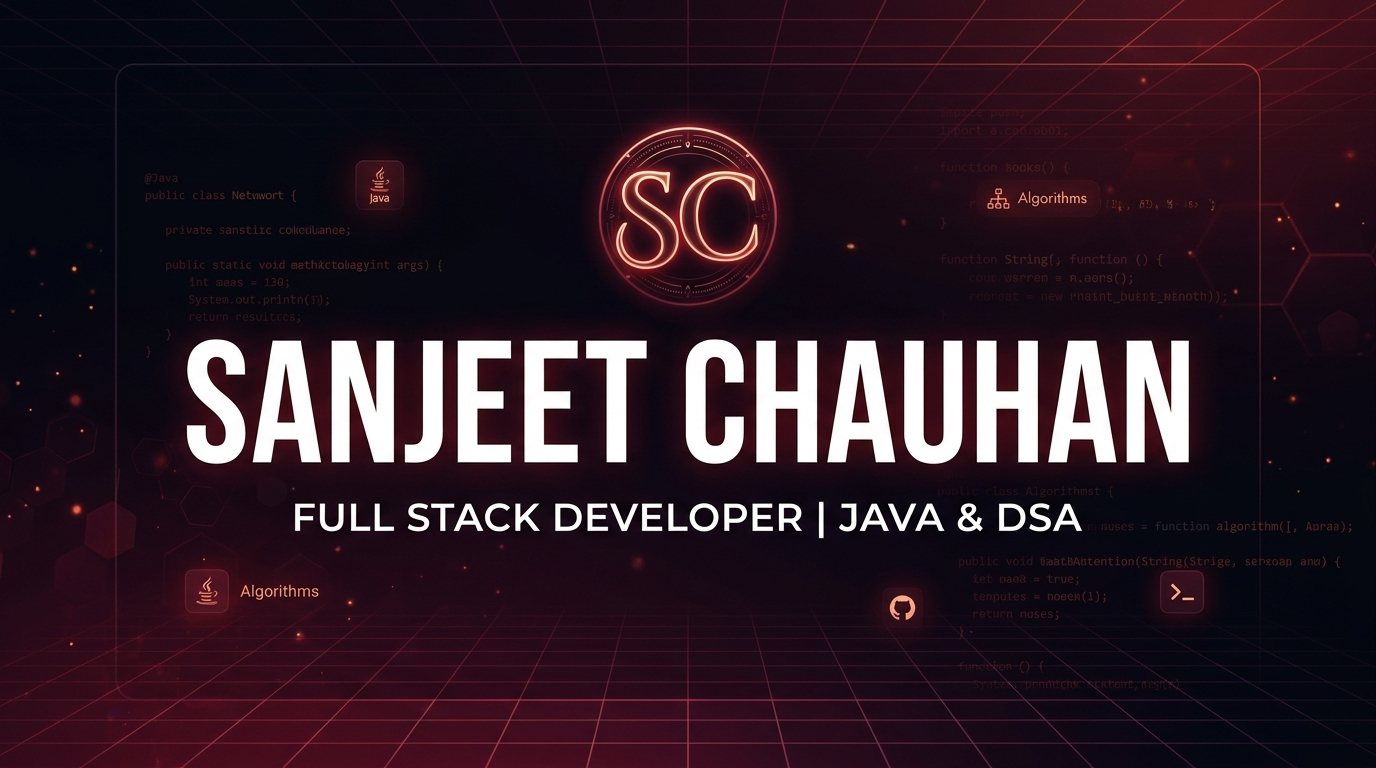
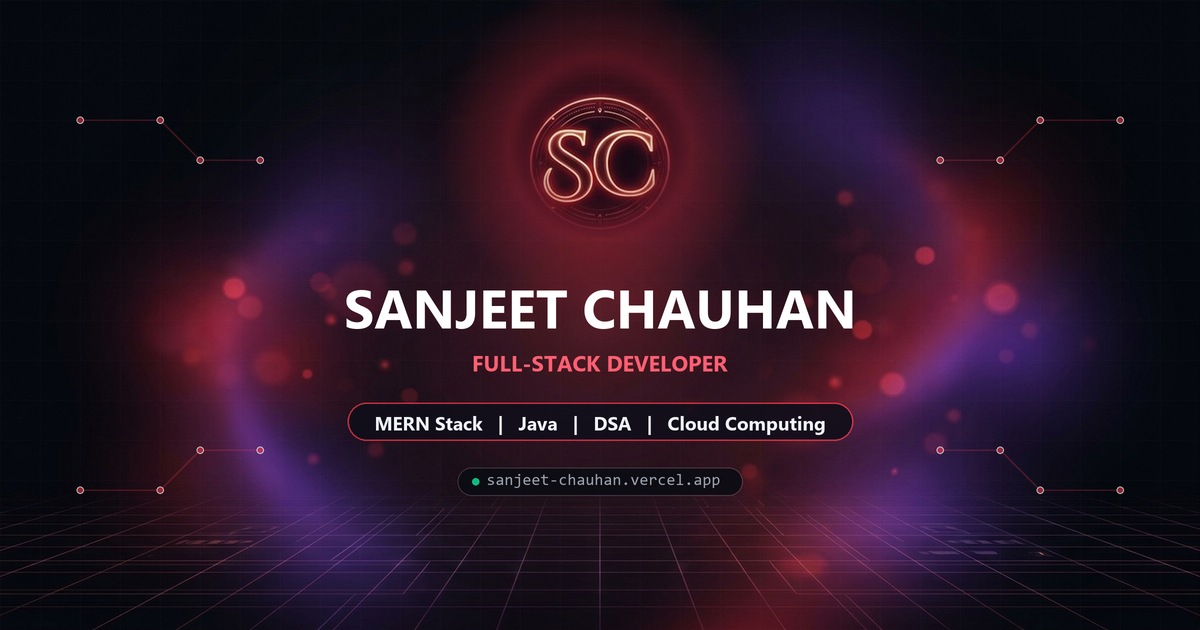
feat(seo): implement premium WhatsApp Open Graph preview with og-preview.jpg (1200x630)

diff --git a/index.html b/index.html
@@ -3,9 +3,9 @@
   <head>
     <meta charset="UTF-8">
     <meta name="viewport" content="width=device-width, initial-scale=1.0">
-    <title>Sanjeet Chauhan | Full Stack Developer</title>
-    <meta name="title" content="Sanjeet Chauhan | Full Stack Developer">
-    <meta name="description" content="Explore the portfolio of Sanjeet Chauhan — Full Stack Developer specializing in MERN Stack, Java, DSA, and modern web development. Discover my projects, technical skills, and achievements.">
+    <title>Sanjeet Chauhan | Full-Stack Developer Portfolio</title>
+    <meta name="title" content="Sanjeet Chauhan | Full-Stack Developer Portfolio">
+    <meta name="description" content="Explore Sanjeet Chauhan's developer portfolio featuring full-stack projects, MERN stack development, Java, DSA, and software engineering work.">
     <meta name="theme-color" content="#08090D">
     <meta name="author" content="Sanjeet Chauhan">
 
@@ -21,24 +21,25 @@
     <meta property="og:type" content="website">
     <meta property="og:site_name" content="Sanjeet Chauhan Portfolio">
     <meta property="og:url" content="https://sanjeet-chauhan.vercel.app/">
-    <meta property="og:title" content="Sanjeet Chauhan | Full Stack Developer">
-    <meta property="og:description" content="Explore the portfolio of Sanjeet Chauhan — Full Stack Developer specializing in MERN Stack, Java, DSA, and modern web development. Discover my projects, technical skills, and achievements.">
-    <meta property="og:image" content="https://sanjeet-chauhan.vercel.app/og-image.jpg">
-    <meta property="og:image:secure_url" content="https://sanjeet-chauhan.vercel.app/og-image.jpg">
+    <meta property="og:title" content="Sanjeet Chauhan | Full-Stack Developer Portfolio">
+    <meta property="og:description" content="Explore Sanjeet Chauhan's developer portfolio featuring full-stack projects, MERN stack development, Java, DSA, and software engineering work.">
+    <meta property="og:image" content="https://sanjeet-chauhan.vercel.app/og-preview.jpg">
+    <meta property="og:image:secure_url" content="https://sanjeet-chauhan.vercel.app/og-preview.jpg">
     <meta property="og:image:type" content="image/jpeg">
     <meta property="og:image:width" content="1200">
     <meta property="og:image:height" content="630">
-    <meta property="og:image:alt" content="Sanjeet Chauhan — Full Stack Developer Portfolio">
+    <meta property="og:image:alt" content="Sanjeet Chauhan - Full-Stack Developer Portfolio">
+    <meta property="og:locale" content="en_IN">
 
     <!-- Twitter Card (Large Image) -->
     <meta name="twitter:card" content="summary_large_image">
     <meta name="twitter:url" content="https://sanjeet-chauhan.vercel.app/">
-    <meta name="twitter:title" content="Sanjeet Chauhan | Full Stack Developer">
-    <meta name="twitter:description" content="Explore the portfolio of Sanjeet Chauhan — Full Stack Developer specializing in MERN Stack, Java, DSA, and modern web development.">
-    <meta name="twitter:image" content="https://sanjeet-chauhan.vercel.app/og-image.jpg">
-    <meta name="twitter:image:alt" content="Sanjeet Chauhan — Full Stack Developer Portfolio">
+    <meta name="twitter:title" content="Sanjeet Chauhan | Full-Stack Developer Portfolio">
+    <meta name="twitter:description" content="Explore Sanjeet Chauhan's developer portfolio featuring full-stack projects, MERN stack development, Java, DSA, and software engineering work.">
+    <meta name="twitter:image" content="https://sanjeet-chauhan.vercel.app/og-preview.jpg">
+    <meta name="twitter:image:alt" content="Sanjeet Chauhan - Full-Stack Developer Portfolio">
 
-    <link rel="image_src" href="https://sanjeet-chauhan.vercel.app/og-image.jpg">
+    <link rel="image_src" href="https://sanjeet-chauhan.vercel.app/og-preview.jpg">
     <link rel="icon" type="image/svg+xml" href="/favicon.svg">
     <script type="application/ld+json">
       {

diff --git a/src/lib/share.ts b/src/lib/share.ts
@@ -14,9 +14,9 @@
  */
 
 export const PORTFOLIO_SHARE_DATA = {
-  title: 'Sanjeet Chauhan | Full Stack Developer',
+  title: 'Sanjeet Chauhan | Full-Stack Developer Portfolio',
   description:
-    'Explore the portfolio of Sanjeet Chauhan — Full Stack Developer specializing in MERN Stack, Java, DSA, and modern web development. Discover my projects, technical skills, and achievements.',
+    "Explore Sanjeet Chauhan's developer portfolio featuring full-stack projects, MERN stack development, Java, DSA, and software engineering work.",
   url: 'https://sanjeet-chauhan.vercel.app',
   get messageText(): string {
     return `${this.title}\n${this.description}\n${this.url}`

diff --git a/scripts/generate_og.py b/scripts/generate_og.py
@@ -2,7 +2,7 @@ import os
 from PIL import Image, ImageDraw, ImageFont, ImageFilter
 
 def generate():
-    W, H = 2400, 1260 # 2x supersampling canvas
+    W, H = 2400, 1260  # 2x supersampling canvas (for crisp 1200x630 output)
     cx = W // 2
 
     base_dir = os.path.dirname(os.path.dirname(os.path.abspath(__file__)))
@@ -14,7 +14,30 @@ def generate():
     else:
         bg = Image.new('RGBA', (W, H), (8, 9, 13, 255))
 
-    # 1. Place the SC emblem with smooth radial mask
+    # 1. Overlay subtle architectural grid & schematic circuits
+    grid_layer = Image.new('RGBA', (W, H), (0, 0, 0, 0))
+    g_draw = ImageDraw.Draw(grid_layer)
+
+    # Grid lines (subtle dark technical texture)
+    for x in range(0, W, 80):
+        g_draw.line([(x, 0), (x, H)], fill=(255, 255, 255, 6), width=1)
+    for y in range(0, H, 80):
+        g_draw.line([(0, y), (W, y)], fill=(255, 255, 255, 6), width=1)
+
+    # Architectural schematic circuit nodes and traces
+    circuit_coords = [
+        [(160, 240), (320, 240), (400, 320), (520, 320)],
+        [(2240, 240), (2080, 240), (2000, 320), (1880, 320)],
+        [(160, 980), (320, 980), (400, 900), (520, 900)],
+        [(2240, 980), (2080, 980), (2000, 900), (1880, 900)],
+    ]
+    for path in circuit_coords:
+        for i in range(len(path) - 1):
+            g_draw.line([path[i], path[i+1]], fill=(255, 59, 78, 55), width=3)
+        for pt in path:
+            g_draw.ellipse([pt[0]-7, pt[1]-7, pt[0]+7, pt[1]+7], fill=(255, 59, 78, 140), outline=(255, 255, 255, 180), width=2)
+
+    # 2. Place the SC emblem with smooth radial mask
     emblem_src = Image.open(os.path.join(public_dir, 'sc_badge_isolated.png')).convert('RGBA')
     emb_w, emb_h = 360, 360
     emblem_resized = emblem_src.resize((emb_w, emb_h), Image.Resampling.LANCZOS)
@@ -27,14 +50,14 @@ def generate():
         m_draw.ellipse([180 - rad, 180 - rad, 180 + rad, 180 + rad], fill=alpha)
     emb_mask = emb_mask.filter(ImageFilter.GaussianBlur(radius=8))
 
-    cy_emb = 310
+    cy_emb = 295
     emb_x = cx - emb_w // 2
     emb_y = cy_emb - emb_h // 2
 
     # Glow layer
     glow_layer = Image.new('RGBA', (W, H), (0, 0, 0, 0))
     glow_draw = ImageDraw.Draw(glow_layer)
-    for r_glow, alpha in [(300, 20), (250, 40), (200, 70), (160, 110)]:
+    for r_glow, alpha in [(320, 20), (260, 45), (200, 75), (150, 120)]:
         glow_draw.ellipse([cx - r_glow, cy_emb - r_glow, cx + r_glow, cy_emb + r_glow], fill=(255, 45, 65, alpha))
 
     # Text & Art layers
@@ -45,34 +68,34 @@ def generate():
     art_draw = ImageDraw.Draw(art_layer)
 
     # Fonts
-    font_name = ImageFont.truetype(r'C:\Windows\Fonts\segoeuib.ttf', 106)
+    font_name = ImageFont.truetype(r'C:\Windows\Fonts\segoeuib.ttf', 108)
     font_role = ImageFont.truetype(r'C:\Windows\Fonts\segoeuib.ttf', 44)
-    font_badge = ImageFont.truetype(r'C:\Windows\Fonts\segoeuib.ttf', 32)
+    font_pill = ImageFont.truetype(r'C:\Windows\Fonts\segoeuib.ttf', 38)
+    font_domain = ImageFont.truetype(r'C:\Windows\Fonts\consola.ttf', 32)
 
     # Name: SANJEET CHAUHAN
     name = 'SANJEET CHAUHAN'
     n_bbox = text_draw.textbbox((0, 0), name, font=font_name)
     ntw = n_bbox[2] - n_bbox[0]
     nth = n_bbox[3] - n_bbox[1]
-    y_name = 565
+    y_name = 540
 
     for off in range(4, 25, 5):
-        glow_draw.text((cx - ntw//2, y_name), name, font=font_name, fill=(255, 45, 65, 50))
+        glow_draw.text((cx - ntw//2, y_name), name, font=font_name, fill=(255, 45, 65, 45))
     text_draw.text((cx - ntw//2, y_name), name, font=font_name, fill=(255, 255, 255, 255))
 
-    # Subtitle: FULL STACK DEVELOPER
-    role = 'FULL STACK DEVELOPER'
+    # Subtitle: FULL-STACK DEVELOPER
+    role = 'FULL-STACK DEVELOPER'
     r_bbox = text_draw.textbbox((0, 0), role, font=font_role)
     rtw = r_bbox[2] - r_bbox[0]
     rth = r_bbox[3] - r_bbox[1]
-    y_role = 725
+    y_role = 695
 
-    glow_draw.text((cx - rtw//2, y_role), role, font=font_role, fill=(255, 50, 75, 150))
+    glow_draw.text((cx - rtw//2, y_role), role, font=font_role, fill=(255, 50, 75, 140))
     text_draw.text((cx - rtw//2, y_role), role, font=font_role, fill=(255, 95, 115, 255))
 
-    # Supporting Text pill: Java • DSA • MERN Stack
-    pill_str = 'Java   •   DSA   •   MERN Stack'
-    font_pill = ImageFont.truetype(r'C:\Windows\Fonts\segoeuib.ttf', 38)
+    # Supporting Line pill: MERN Stack | Java | DSA | Cloud Computing
+    pill_str = 'MERN Stack   |   Java   |   DSA   |   Cloud Computing'
     pb = text_draw.textbbox((0, 0), pill_str, font=font_pill)
     ptw = pb[2] - pb[0]
     pth = pb[3] - pb[1]
@@ -81,28 +104,58 @@ def generate():
     pill_h = 76
     pill_w = ptw + pill_pad_x * 2
     pill_x = cx - pill_w // 2
-    y_pill = 835
+    y_pill = 805
 
+    # Glassmorphic container with ember outline
     art_draw.rounded_rectangle([pill_x, y_pill, pill_x + pill_w, y_pill + pill_h],
                                radius=pill_h//2, fill=(16, 14, 26, 235), outline=(255, 59, 78, 175), width=3)
     text_draw.text((pill_x + pill_pad_x, y_pill + (pill_h - pth)//2 - 4), pill_str, font=font_pill, fill=(240, 243, 250, 255))
 
+    # Domain / Status Accent badge at bottom: sanjeet-chauhan.vercel.app
+    dom_str = 'sanjeet-chauhan.vercel.app'
+    db = text_draw.textbbox((0, 0), dom_str, font=font_domain)
+    dtw = db[2] - db[0]
+    dth = db[3] - db[1]
+    
+    dom_pad_x = 36
+    dom_h = 56
+    dom_w = dtw + dom_pad_x * 2 + 30
+    dom_x = cx - dom_w // 2
+    y_dom = 935
+
+    art_draw.rounded_rectangle([dom_x, y_dom, dom_x + dom_w, y_dom + dom_h],
+                               radius=dom_h//2, fill=(10, 11, 18, 220), outline=(255, 255, 255, 40), width=2)
+    # Green status dot
+    dot_x = dom_x + dom_pad_x
+    dot_y = y_dom + dom_h // 2
+    art_draw.ellipse([dot_x - 7, dot_y - 7, dot_x + 7, dot_y + 7], fill=(16, 185, 129, 255))
+    text_draw.text((dot_x + 22, y_dom + (dom_h - dth)//2 - 2), dom_str, font=font_domain, fill=(156, 163, 175, 255))
+
     glow_layer = glow_layer.filter(ImageFilter.GaussianBlur(radius=20))
 
-    comp = Image.alpha_composite(bg, glow_layer)
+    comp = Image.alpha_composite(bg, grid_layer)
+    comp = Image.alpha_composite(comp, glow_layer)
     comp.paste(emblem_resized, (emb_x, emb_y), emb_mask)
     comp = Image.alpha_composite(comp, art_layer)
     comp = Image.alpha_composite(comp, text_layer)
 
     final = comp.resize((1200, 630), Image.Resampling.LANCZOS).convert('RGB')
     
-    # Save portfolio-og-v3.jpg, portfolio-og-v2.jpg, og-image.jpg, and og.jpg
-    for fn in ['portfolio-og-v3.jpg', 'portfolio-og-v2.jpg', 'og-image.jpg', 'og.jpg']:
+    # Save og-preview.jpg, og-image.jpg, portfolio-og-v3.jpg, portfolio-og-v2.jpg, og.jpg
+    target_files = [
+        'og-preview.jpg',
+        'og-image.jpg',
+        'portfolio-og-v3.jpg',
+        'portfolio-og-v2.jpg',
+        'og.jpg'
+    ]
+    for fn in target_files:
         out_path = os.path.join(public_dir, fn)
-        final.save(out_path, quality=92, optimize=True)
+        final.save(out_path, quality=93, optimize=True)
+        print(f'Saved {out_path} ({os.path.getsize(out_path)} bytes, {os.path.getsize(out_path)/1024:.1f} KB)')
+
     final.save(os.path.join(public_dir, 'og.png'), optimize=True)
-    
-    print('Generated public/portfolio-og-v3.jpg, portfolio-og-v2.jpg, og-image.jpg successfully!')
+    print('Generated all Open Graph preview images successfully!')
 
 if __name__ == '__main__':
     generate()
